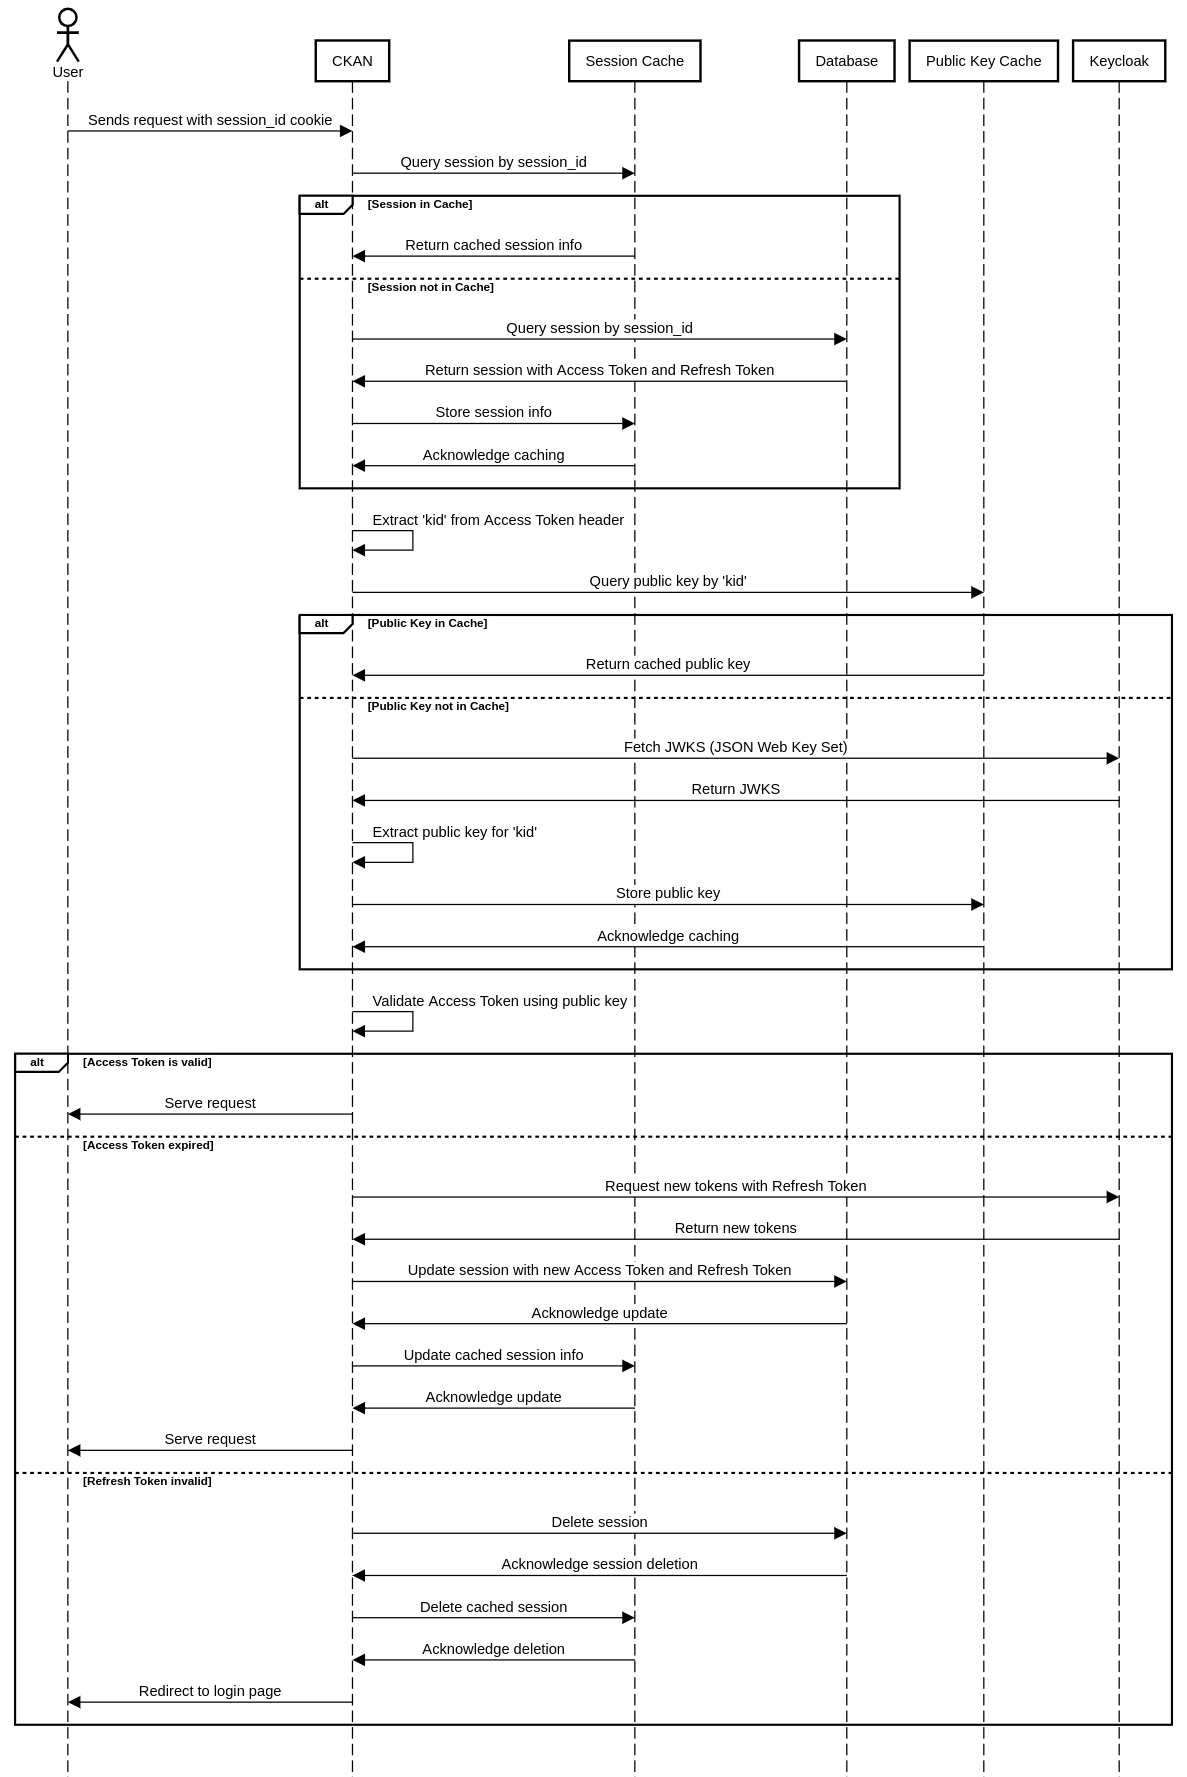
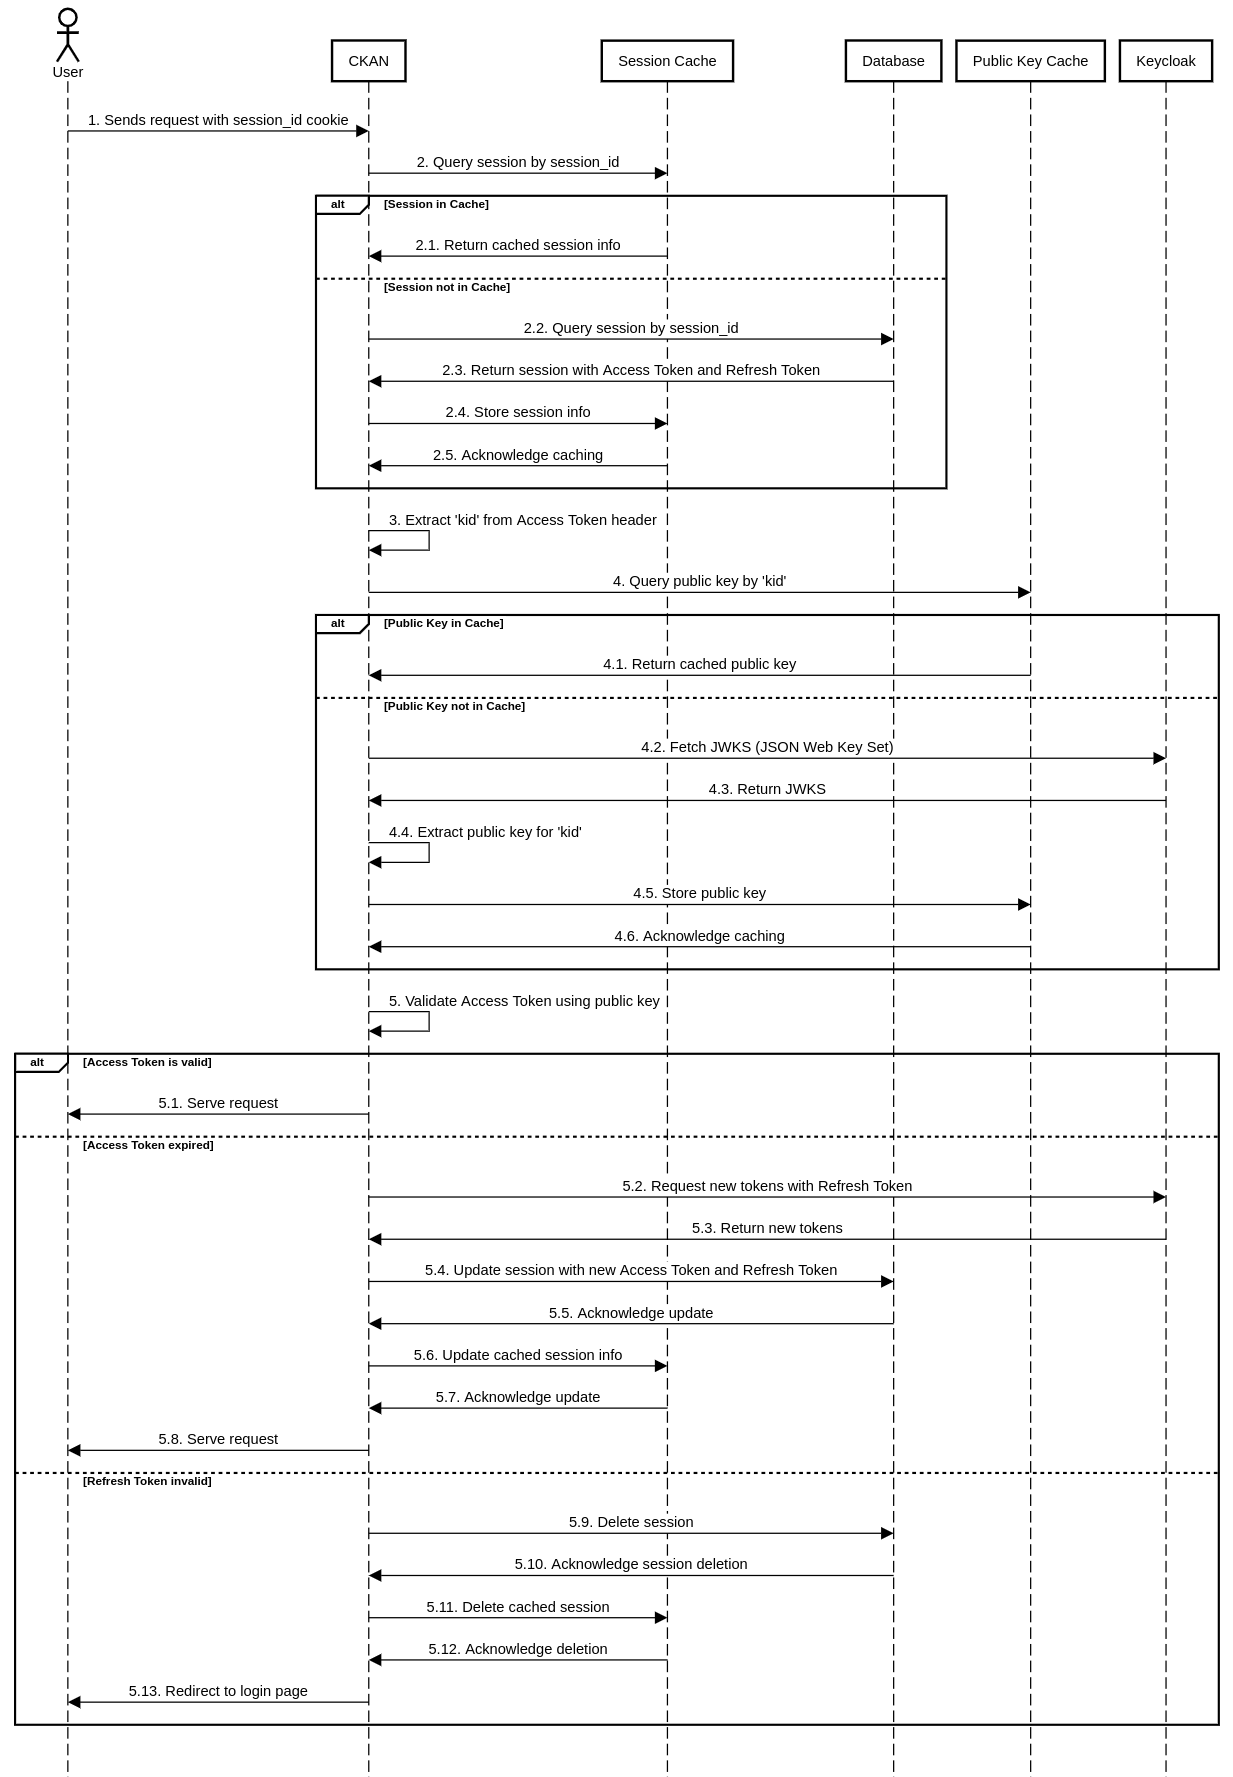
Match the authentication steps with the diagrams

diff --git a/README.md b/README.md
@@ -15,37 +15,55 @@ The login process consists of a series of steps that take the user from unauthen
 
 #### Step-by-Step Login Flow:
 
-1. **User Requests Login**:
-   - In CKAN the user clicks the "Log in" button at the top of the page.
-   - The user is redirected to the Keycloak login page by the CKAN system.
+1. **User Initiates Login**:
+   - The user clicks the "Login" button at the top of the CKAN page.
 
 2. **Redirection to Keycloak**:
-   - CKAN constructs a URL that points to the Keycloak authorization endpoint.
-   - The URL contains the `client_id` (which identifies CKAN as the client), the `redirect_uri` (the URL Keycloak should redirect the user to after authentication), and other parameters such as `response_type=code` and `scope=openid`.
-   - The user is redirected to this Keycloak URL.
+   - CKAN constructs a URL pointing to the Keycloak authorization endpoint.
+   - The URL includes `client_id`, `redirect_uri`, `response_type=code`, and `scope=openid`.
+   - CKAN redirects the user to this Keycloak URL.
 
 3. **Keycloak Authentication**:
-   - The user is presented with a login form on the Keycloak page.
+   - The user is presented with Keycloak's login form.
    - The user enters their credentials (username and password) and submits the form.
-   - Keycloak authenticates the user based on these credentials.
 
-4. **Authorization Code Received**:
-   - After successful authentication, Keycloak generates an **authorization code**.
-   - The user is redirected back to CKAN at the specified `redirect_uri` (`/authenticate`) with the authorization code included in the query parameters.
+4. **Credential Validation**:
+   - Keycloak internally validates the user's credentials.
 
-5. **Token Exchange**:
-   - CKAN receives the authorization code.
-   - CKAN sends a server-to-server POST request to Keycloak’s token endpoint, exchanging the authorization code for an **access token** and a **refresh token**.
-   - If successful, Keycloak responds with the access and refresh tokens.
+5. **Authorization Code Generation**:
+   - Upon successful authentication, Keycloak generates an authorization code.
+   - Keycloak redirects the user back to CKAN's specified `redirect_uri` with the authorization code.
 
-6. **Session Creation**:
-   - CKAN generates a secure session ID and associates it with the user.
-   - The access token and refresh token are stored in the CKAN database, linked to the session ID.
-   - A session cookie (`session_id`) is set in the user's browser, allowing CKAN to identify the user in subsequent requests.
+6. **Authorization Code Received**:
+   - The user's browser sends a request to CKAN with the authorization code.
 
-7. **User Redirected to CKAN**:
-   - After tokens are stored, the user is redirected to the CKAN interface, now logged in and authenticated.
-   - CKAN sets the `session_id` cookie to maintain the user’s session.
+7. **Token Exchange Request**:
+   - CKAN sends a server-to-server POST request to Keycloak's token endpoint.
+   - CKAN exchanges the authorization code for access and refresh tokens.
+
+8. **Token Response**:
+   - Keycloak responds to CKAN with the access and refresh tokens.
+
+9. **Session ID Generation**:
+   - CKAN generates a secure session ID for the user.
+
+10. **Database Storage**:
+    - CKAN stores the session ID, access token, and refresh token in its database.
+
+11. **Storage Confirmation**:
+    - The database acknowledges successful storage of the session information.
+
+12. **Cache Storage**:
+    - CKAN stores the session information (session ID, access token, refresh token) in the session cache.
+
+13. **Cache Confirmation**:
+    - The session cache acknowledges successful caching of the session information.
+
+14. **Cookie Setting**:
+    - CKAN sets a `session_id` cookie in the user's browser.
+
+15. **Final Redirection**:
+    - The user is redirected to the CKAN interface, now logged in and authenticated.
 
 ---
 
@@ -60,29 +78,51 @@ Once the user is logged in, CKAN needs to verify their identity on each request 
 #### Step-by-Step Identity Verification Flow:
 
 1. **User Sends a Request**:
-   - The user navigates the CKAN site, making various requests (e.g., visiting a dataset page).
-   - CKAN checks the request for the presence of a valid `session_id` cookie.
+   - The user navigates the CKAN site, making a request (e.g., visiting a dataset page).
+   - The request includes the `session_id` cookie.
 
 2. **Session Lookup**:
-   - CKAN retrieves the `session_id` from the user's cookies.
-   - It looks up the session in the database to find the associated access token and refresh token.
+   - CKAN queries the session cache using the `session_id`.
+   - If the session is in the cache:
+     - 2.1. The cache returns the cached session information.
+   - If the session is not in the cache:
+     - 2.2. CKAN queries the database for the session information.
+     - 2.3. The database returns the session with Access Token and Refresh Token.
+     - 2.4. CKAN stores the session information in the cache.
+     - 2.5. The cache acknowledges successful caching.
 
-3. **Access Token Validation**:
-   - CKAN checks if the access token is valid and has not expired.
-   - If the token is valid, CKAN decodes the JWT token to extract user information (such as email, username, and roles).
-   - CKAN then identifies the user based on this information, ensuring that the request is properly authorized.
+3. **Token Header Extraction**:
+   - CKAN extracts the 'kid' (Key ID) from the Access Token header.
 
-4. **Access Token Expiration Handling**:
-   - If the access token has expired, CKAN attempts to use the **refresh token** to obtain a new access token from Keycloak.
-   - CKAN sends a request to Keycloak’s token endpoint with the refresh token.
-   - If successful, Keycloak returns a new access token and refresh token, which are stored in the session, and the user session is updated.
+4. **Public Key Retrieval**:
+   - CKAN queries the Public Key Cache using the 'kid'.
+   - If the public key is in the cache:
+     - 4.1. The cache returns the cached public key.
+   - If the public key is not in the cache:
+     - 4.2. CKAN fetches the JWKS (JSON Web Key Set) from Keycloak.
+     - 4.3. Keycloak returns the JWKS.
+     - 4.4. CKAN extracts the public key for the specific 'kid'.
+     - 4.5. CKAN stores the public key in the cache.
+     - 4.6. The cache acknowledges successful caching of the public key.
 
-5. **Failed Token Validation**:
-   - If CKAN cannot refresh the token or the tokens are invalid, the user is logged out and redirected to the login page.
-
-6. **User Continuation**:
-   - If the token validation succeeds, the user continues to interact with CKAN as the identified, authenticated user.
-
+5. **Access Token Validation**:
+   - CKAN validates the Access Token using the public key.
+   - If the Access Token is valid:
+     - 5.1. CKAN serves the user's request.
+   - If the Access Token has expired:
+     - 5.2. CKAN requests new tokens from Keycloak using the Refresh Token.
+     - 5.3. Keycloak returns new Access and Refresh Tokens.
+     - 5.4. CKAN updates the session in the database with the new tokens.
+     - 5.5. The database acknowledges the update.
+     - 5.6. CKAN updates the cached session information.
+     - 5.7. The cache acknowledges the update.
+     - 5.8. CKAN serves the user's request.
+   - If the Refresh Token is invalid:
+     - 5.9. CKAN deletes the session from the database.
+     - 5.10. The database acknowledges the session deletion.
+     - 5.11. CKAN deletes the cached session.
+     - 5.12. The cache acknowledges the deletion.
+     - 5.13. CKAN redirects the user to the login page.
 ---
 
 ### 3. **Logout Flow**
@@ -96,20 +136,34 @@ When a user logs out, the system must invalidate the session both in CKAN and in
 #### Step-by-Step Logout Flow:
 
 1. **User Initiates Logout**:
-   - The user clicks a "Logout" button in the CKAN interface.
-   - CKAN triggers the logout process.
+   - The user clicks the "Logout" button in the CKAN interface.
 
-2. **Session Deletion in CKAN**:
-   - CKAN deletes the user’s session from its internal session storage, effectively removing the stored access and refresh tokens.
-   - CKAN clears the `session_id` cookie from the user's browser, ensuring no further session identification is possible.
+2. **Database Session Deletion**:
+   - CKAN sends a request to delete the session from the database using the session_id.
 
-3. **Redirection to Keycloak Logout**:
+3. **Database Acknowledgment**:
+   - The database acknowledges the successful deletion of the session.
+
+4. **Cache Session Deletion**:
+   - CKAN delete the cached session from the Session Cache.
+
+5. **Cache Acknowledgment**:
+   - The Session Cache acknowledges the successful deletion of the cached session.
+
+6. **Cookie Deletion**:
+   - CKAN deletes the session_id cookie from the user's browser.
+
+7. **Keycloak Logout Redirection**:
    - CKAN redirects the user to the Keycloak logout endpoint.
-   - This ensures that the user is also logged out of Keycloak, invalidating the session in the identity provider as well.
 
-4. **User Redirected Back to CKAN**:
-   - After logging out from Keycloak, the user is redirected back to CKAN (to a predefined URL, often the homepage).
-   - The user is now fully logged out and must log in again to access protected resources.
+8. **Keycloak Session Invalidation**:
+   - Keycloak invalidates its own session for the user.
+
+9. **User Redirection to CKAN**:
+   - Keycloak redirects the user back to CKAN (typically to the homepage or a logout confirmation page).
+
+10. **Logout Completion**:
+    - The user arrives at CKAN, now fully logged out.
 
 ---
 
